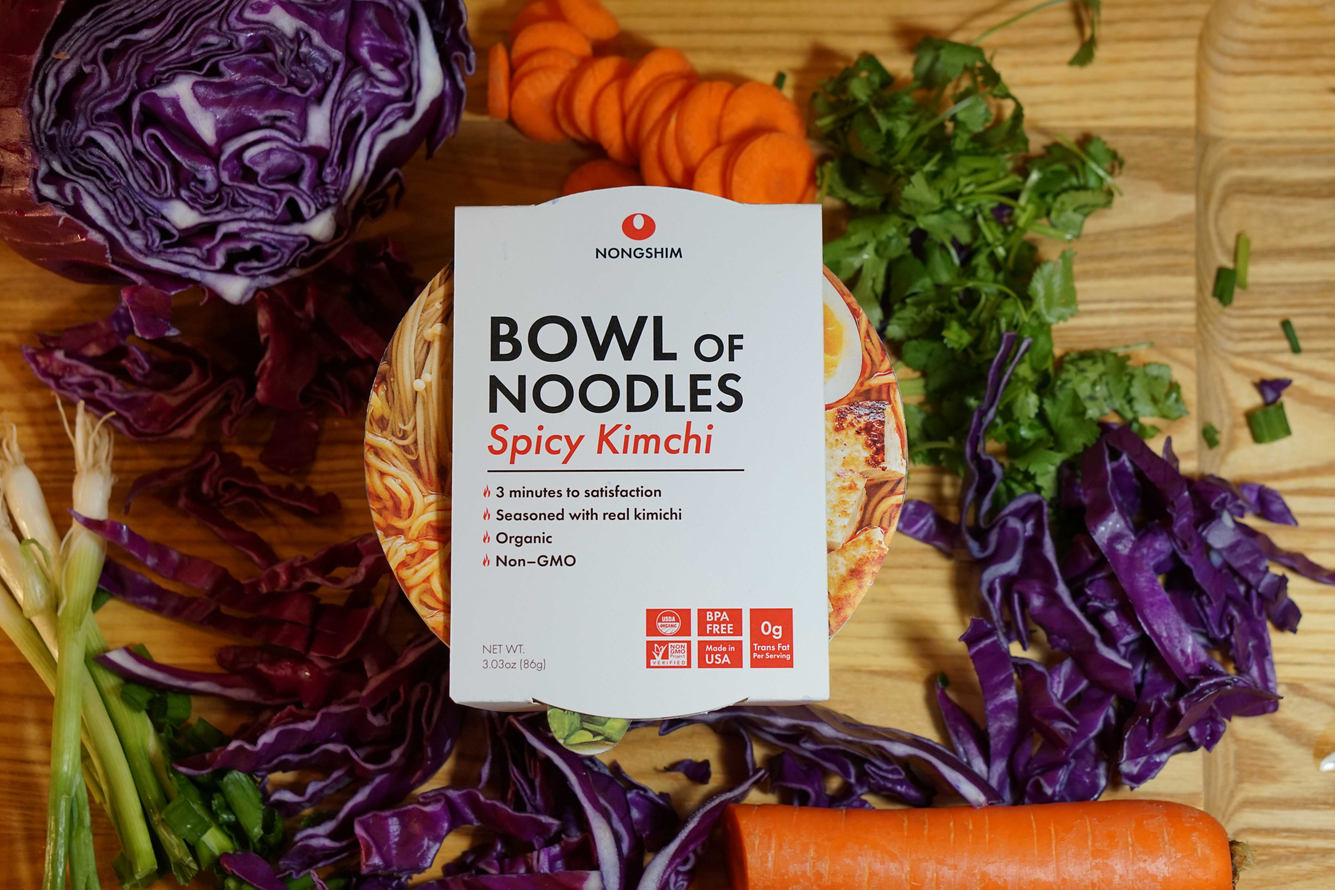
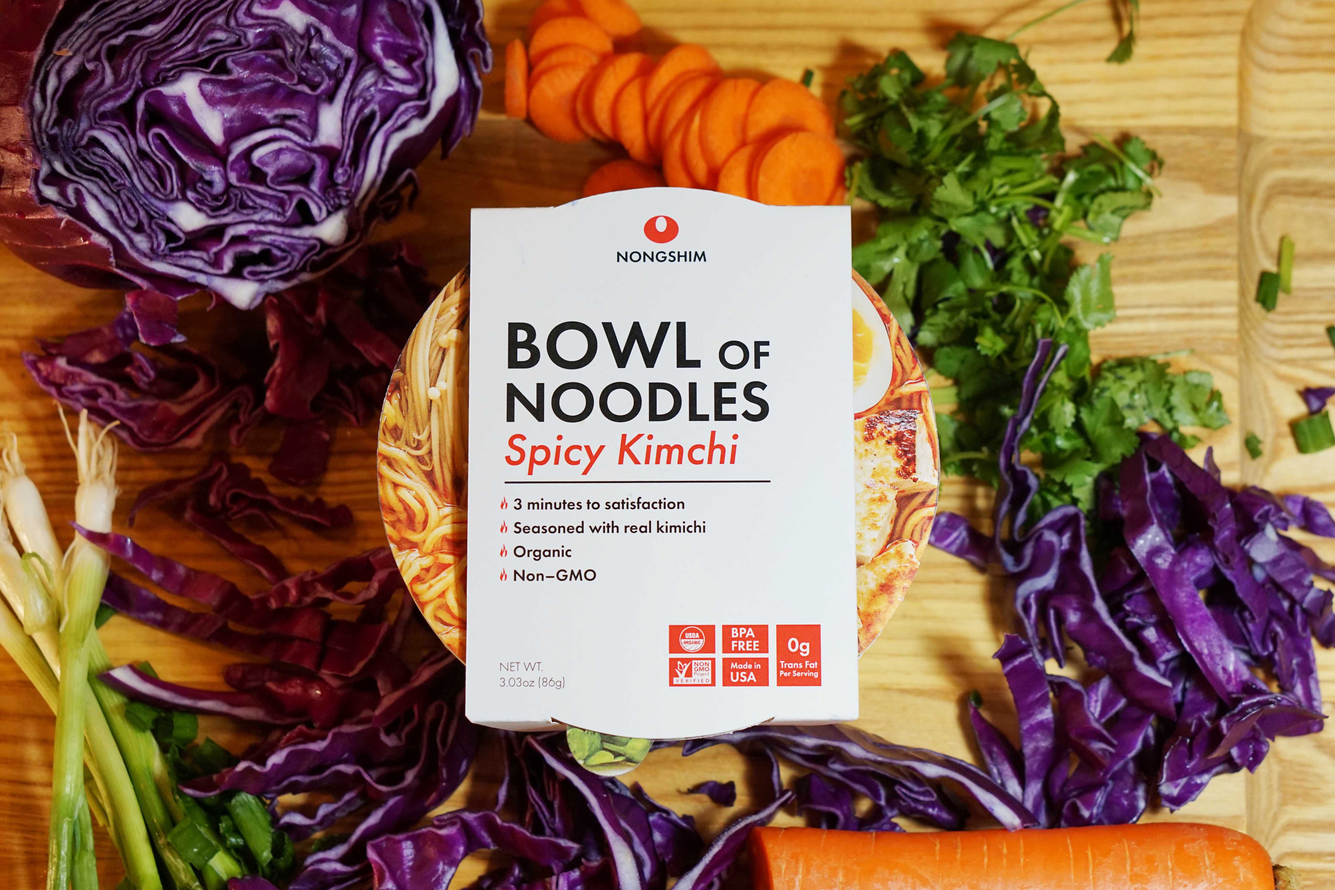
444

diff --git a/index.html b/index.html
@@ -49,7 +49,7 @@
                 
                 <div id="projectblock">
                     <div class="container">
-                    <a href="m42.html"><img src="images/m42/m5.jpg" alt="Avatar" class="image" style="width:100%"></a>
+                    <a href="m42.html"><img src="images/m42/m42cov.jpg" alt="Avatar" class="image" style="width:100%"></a>
                     <a href="m42.html"><div class="middle">
                     <div class="text">m42</div>
                     </div></a>
@@ -58,7 +58,7 @@
                 
                 <div id="projectblock">
                      <div class="container">
-                    <a href="bowl.html"><img src="images/bowl/bowl1.jpg" alt="Avatar" class="image" style="width:100%"></a>
+                    <a href="bowl.html"><img src="images/bowl/bowlcov.jpg" alt="Avatar" class="image" style="width:100%"></a>
                     <a href="bowl.html"><div class="middle">
                     <div class="text">Bowl of Noodles</div>
                     </div></a>
@@ -67,7 +67,7 @@
                 
                 <div id="projectblock">
                     <div class="container">
-                    <a href="lnyf.html"><img src="images/lnyf/p6.jpg" alt="Avatar" class="image" style="width:100%"></a>
+                    <a href="lnyf.html"><img src="images/lnyf/lncov.jpg" alt="Avatar" class="image" style="width:100%"></a>
                     <a href="lnyf.html"><div class="middle">
                     <div class="text">LNYF 2018</div>
                     </div></a>
